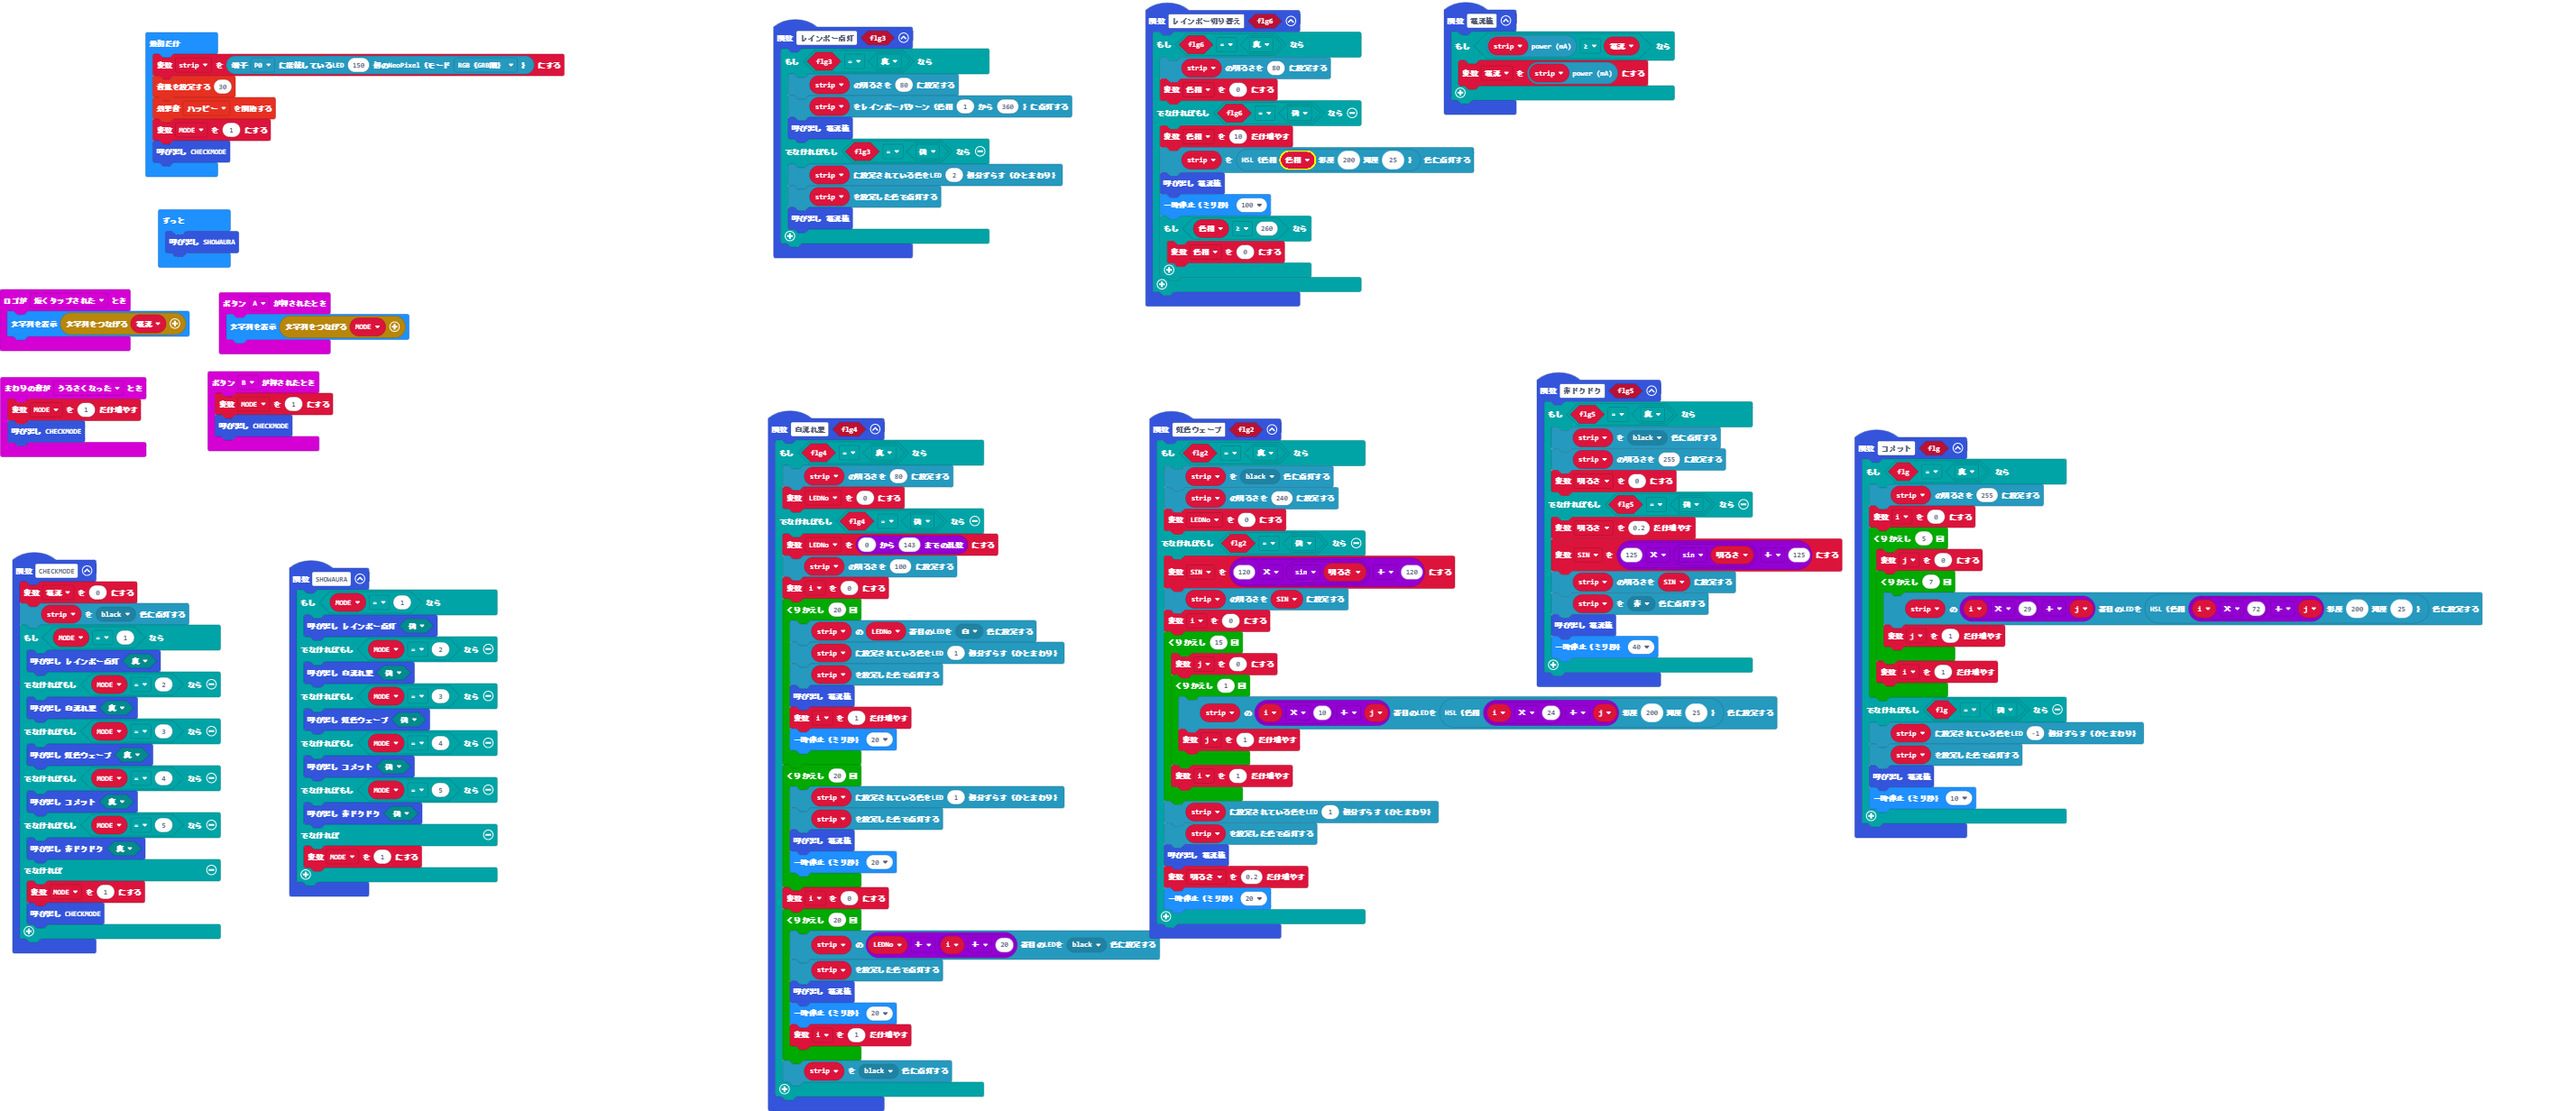
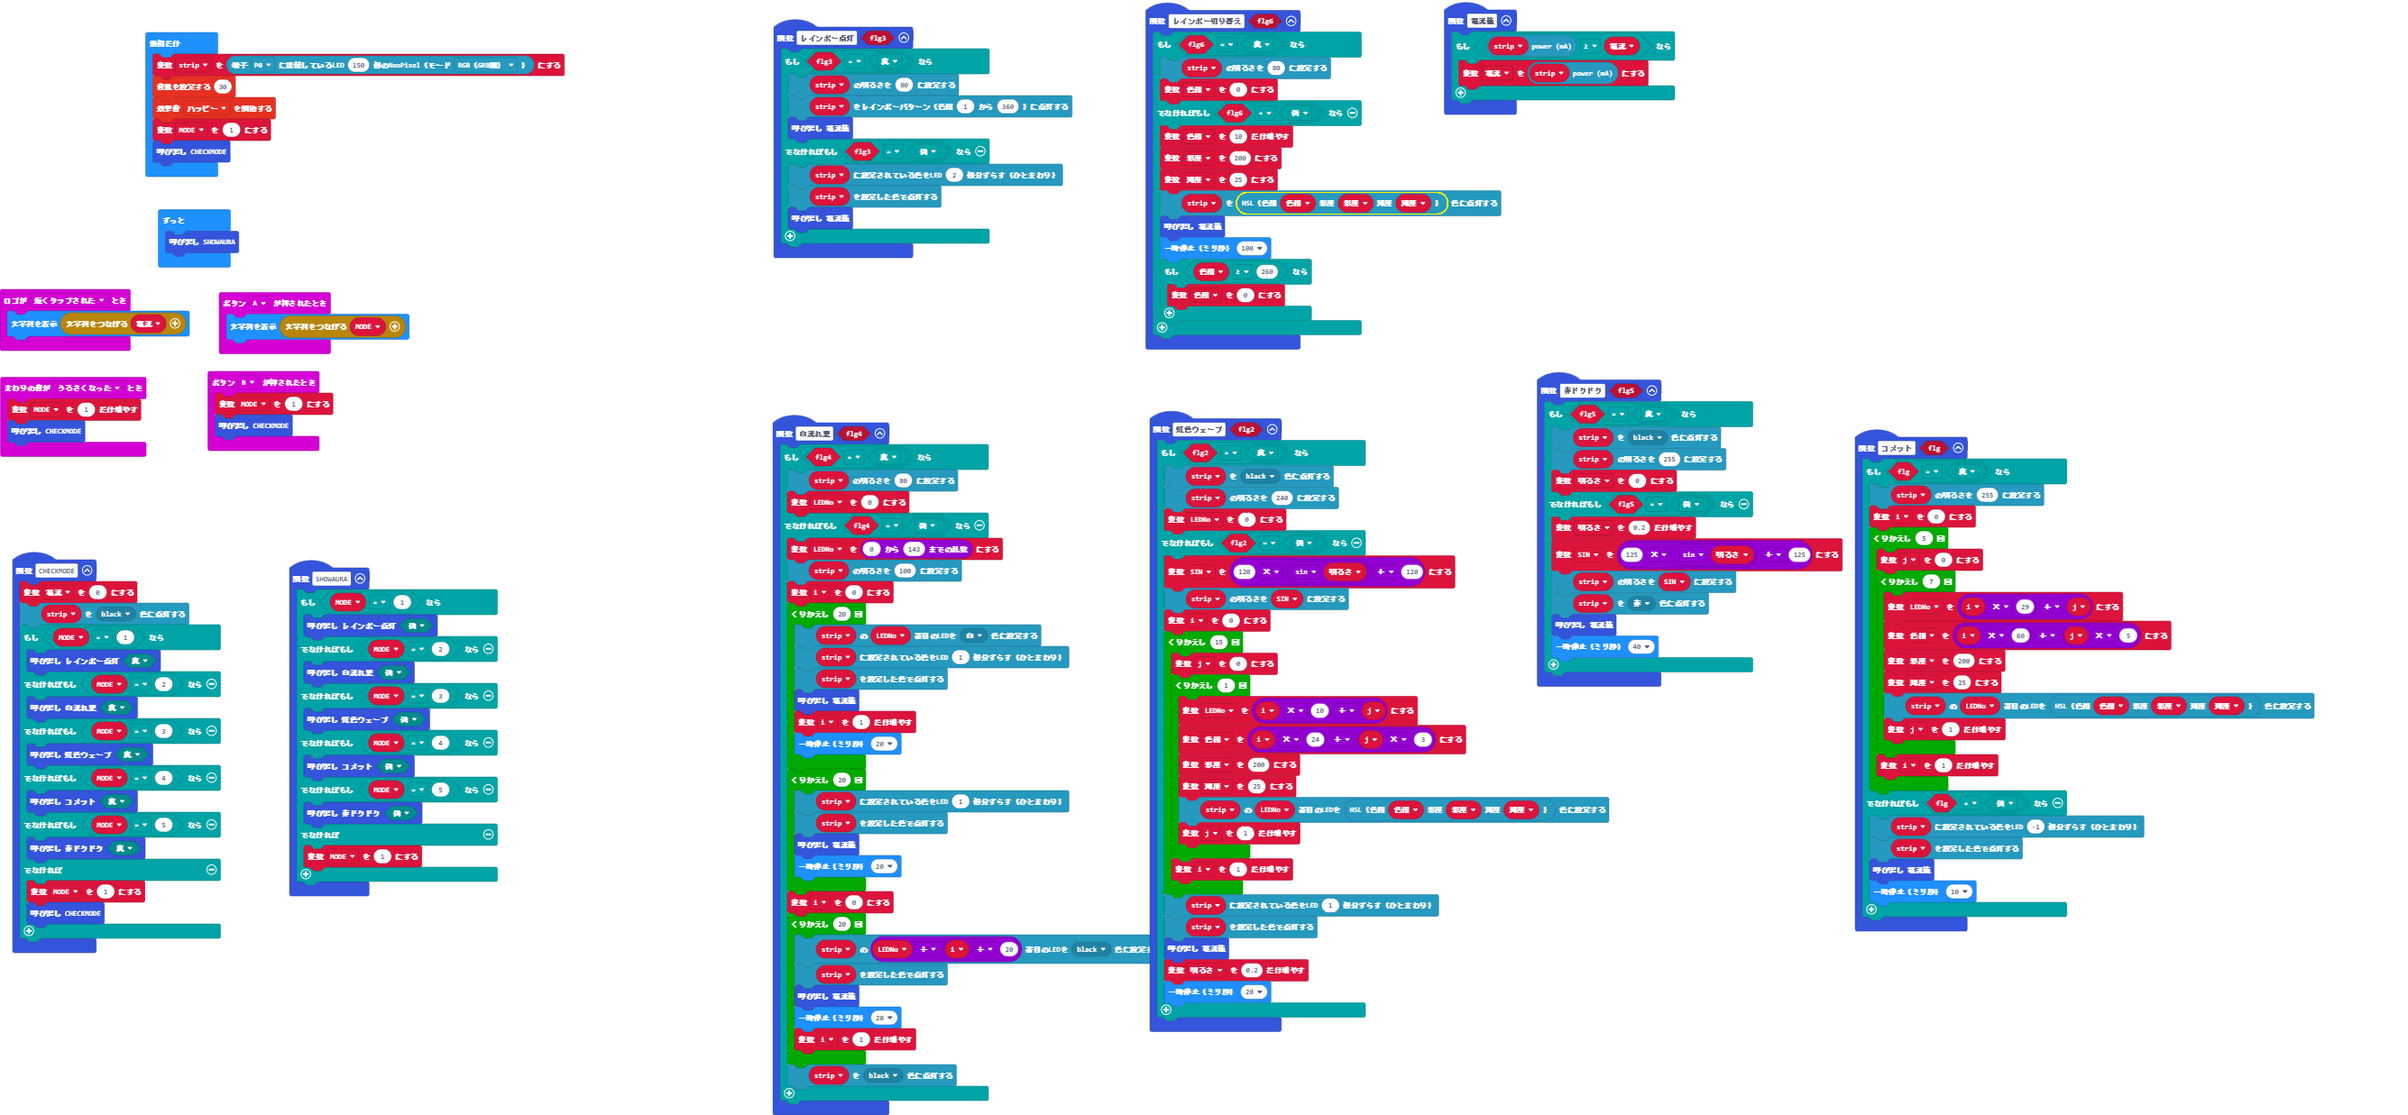
更新 main.blocks, main.ts, main.py

diff --git a/main.ts b/main.ts
@@ -26,7 +26,11 @@ function コメット (flg: boolean) {
         for (let index = 0; index < 5; index++) {
             j = 0
             for (let index = 0; index < 7; index++) {
-                strip.setPixelColor(i * 29 + j, neopixel.hsl(i * 72 + j, 200, 25))
+                LEDNo = i * 29 + j
+                色相 = i * 60 + j * 5
+                彩度 = 200
+                輝度 = 25
+                strip.setPixelColor(LEDNo, neopixel.hsl(色相, 彩度, 輝度))
                 j += 1
             }
             i += 1
@@ -50,7 +54,11 @@ function 虹色ウェーブ (flg2: boolean) {
         for (let index = 0; index < 15; index++) {
             j = 0
             for (let index = 0; index < 1; index++) {
-                strip.setPixelColor(i * 10 + j, neopixel.hsl(i * 24 + j, 200, 25))
+                LEDNo = i * 10 + j
+                色相 = i * 24 + j * 3
+                彩度 = 200
+                輝度 = 25
+                strip.setPixelColor(LEDNo, neopixel.hsl(色相, 彩度, 輝度))
                 j += 1
             }
             i += 1
@@ -157,7 +165,9 @@ function レインボー切り替え (flg6: boolean) {
         色相 = 0
     } else if (flg6 == false) {
         色相 += 10
-        strip.showColor(neopixel.hsl(色相, 200, 25))
+        彩度 = 200
+        輝度 = 25
+        strip.showColor(neopixel.hsl(色相, 彩度, 輝度))
         電流値()
         basic.pause(100)
         if (色相 >= 260) {
@@ -165,9 +175,11 @@ function レインボー切り替え (flg6: boolean) {
         }
     }
 }
-let 色相 = 0
 let 明るさ = 0
 let SIN = 0
+let 輝度 = 0
+let 彩度 = 0
+let 色相 = 0
 let LEDNo = 0
 let j = 0
 let i = 0

diff --git a/main.py b/main.py
@@ -21,14 +21,17 @@ def on_button_pressed_a():
 input.on_button_pressed(Button.A, on_button_pressed_a)
 
 def コメット(flg: bool):
-    global i, j
+    global i, j, 色相, 彩度, 輝度
     if flg == True:
         strip.set_brightness(255)
         i = 0
         for index in range(5):
             j = 0
             for index2 in range(7):
-                strip.set_pixel_color(i * 29 + j, neopixel.hsl(0, 0, 0))
+                色相 = i * 60 + j * 5
+                彩度 = 200
+                輝度 = 25
+                strip.set_pixel_color(i * 29 + j, neopixel.hsl(色相, 彩度, 輝度))
                 j += 1
             i += 1
     elif flg == False:
@@ -37,7 +40,7 @@ def コメット(flg: bool):
         電流値()
         basic.pause(10)
 def 虹色ウェーブ(flg2: bool):
-    global LEDNo, SIN, i, j, 明るさ
+    global LEDNo, SIN, i, j, 色相, 彩度, 輝度, 明るさ
     if flg2 == True:
         strip.show_color(neopixel.colors(NeoPixelColors.BLACK))
         strip.set_brightness(240)
@@ -49,7 +52,10 @@ def 虹色ウェーブ(flg2: bool):
         for index3 in range(15):
             j = 0
             for index4 in range(1):
-                strip.set_pixel_color(i * 10 + j, neopixel.hsl(0, 0, 0))
+                色相 = i * 24 + j * 3
+                彩度 = 200
+                輝度 = 25
+                strip.set_pixel_color(i * 10 + j, neopixel.hsl(色相, 彩度, 輝度))
                 j += 1
             i += 1
         strip.rotate(1)
@@ -146,21 +152,25 @@ def 赤ドクドク(flg5: bool):
         電流値()
         basic.pause(40)
 def レインボー切り替え(flg6: bool):
-    global 色相
+    global 色相, 彩度, 輝度
     if flg6 == True:
         strip.set_brightness(80)
         色相 = 0
     elif flg6 == False:
         色相 += 10
-        strip.show_color(neopixel.hsl(0, 0, 0))
+        彩度 = 200
+        輝度 = 25
+        strip.show_color(neopixel.hsl(色相, 彩度, 輝度))
         電流値()
         basic.pause(100)
         if 色相 >= 260:
             色相 = 0
-色相 = 0
 明るさ = 0
 SIN = 0
 LEDNo = 0
+輝度 = 0
+彩度 = 0
+色相 = 0
 j = 0
 i = 0
 電流 = 0
